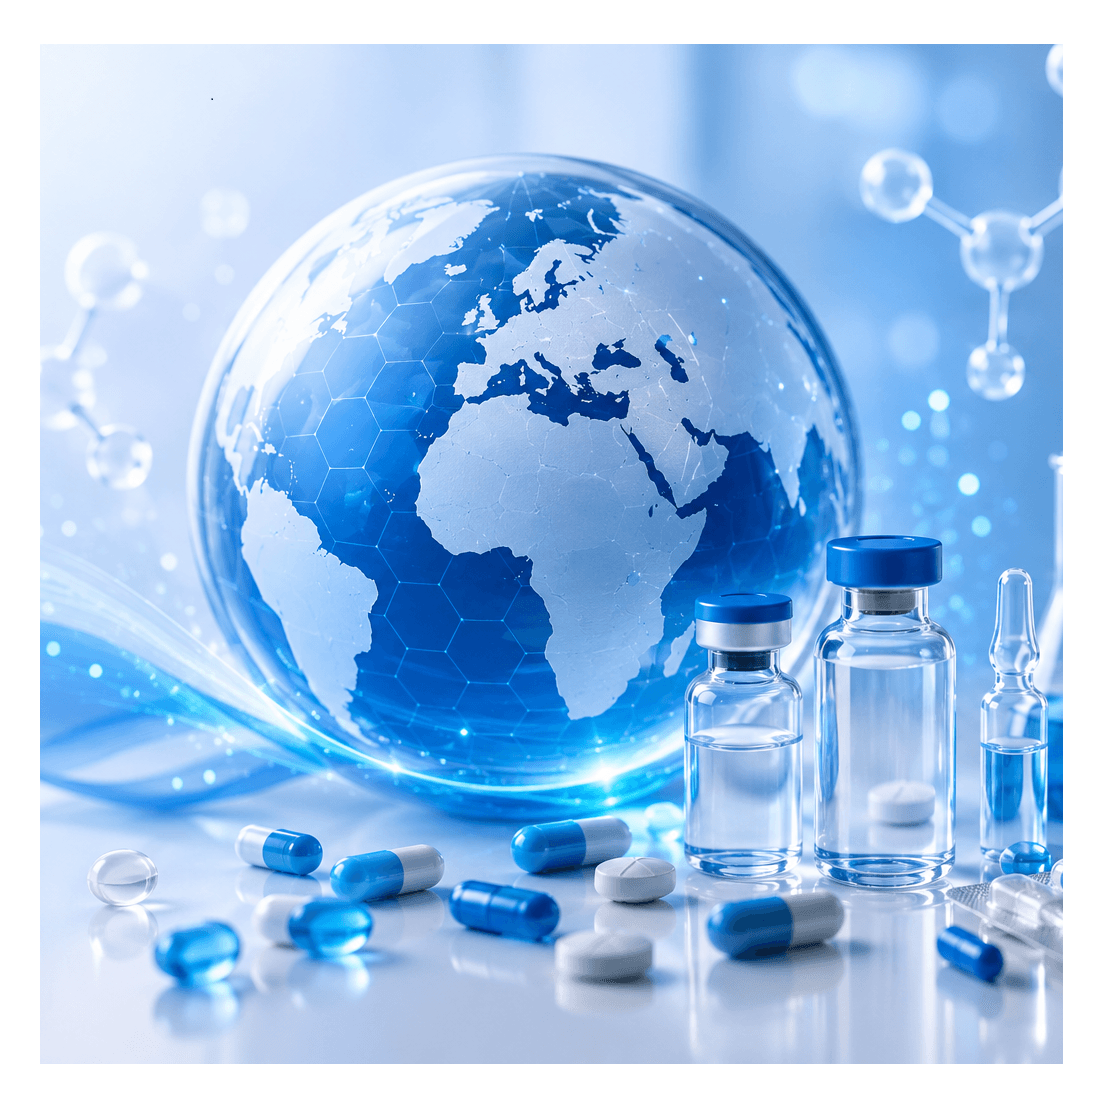
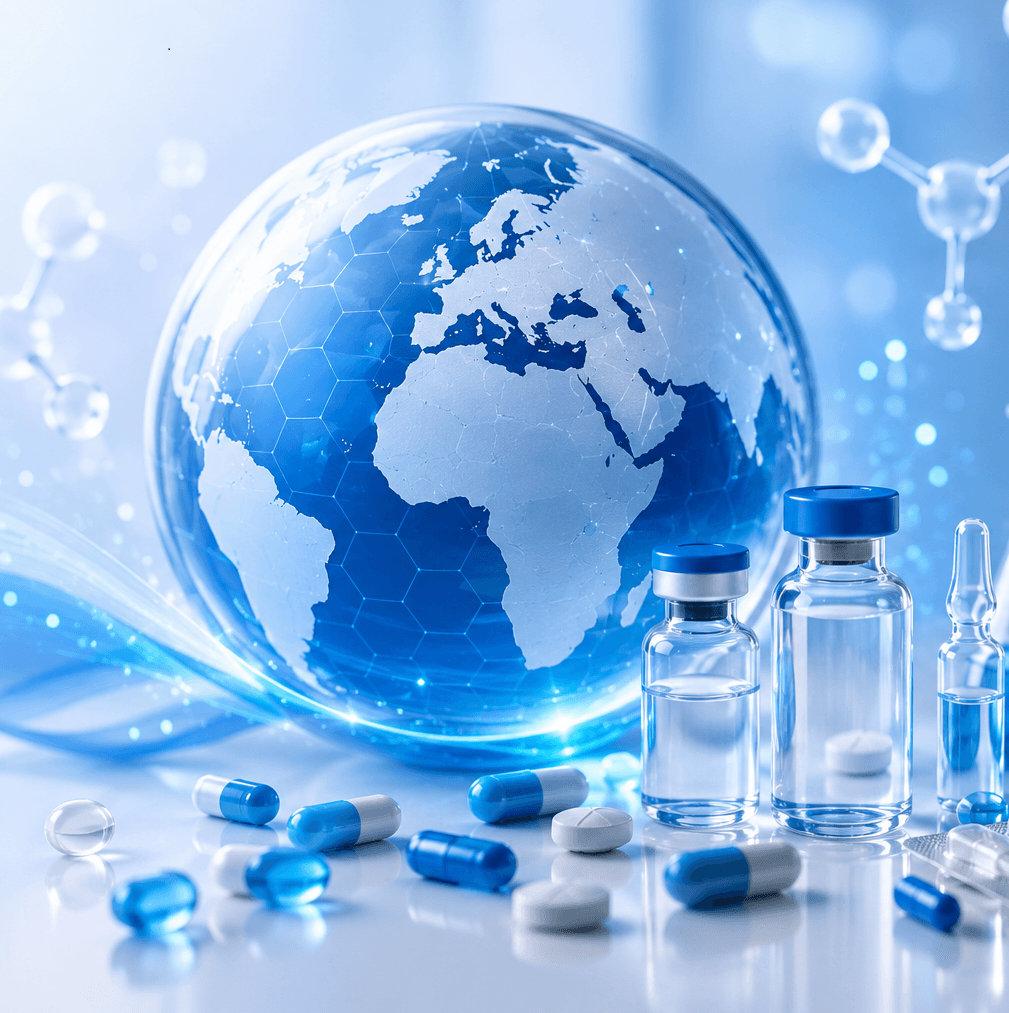
Product and Quality pages
images Changed

diff --git a/src/app/products/page.tsx b/src/app/products/page.tsx
@@ -240,7 +240,7 @@ export default function ProductsPage() {
                   description: "Essential medications for allergy relief and histamine management.",
                   label: "Antihistamine",
                   accent: "blue",
-                  image: "/Cetrizine.png",
+                  image: "/Products/Cetirizine.jpg",
                   imageAlt: "Cetirizine medication",
                 },
                 {
@@ -248,15 +248,15 @@ export default function ProductsPage() {
                   description: "Comprehensive anticonvulsant formulation for neurological support.",
                   label: "Antiepileptic",
                   accent: "teal",
-                  image: "/Levetiracetam.png",
+                  image: "/Products/Levetiracetam.jpg",
                   imageAlt: "Levetiracetam medication",
                 },
                 {
-                  title: "Pregablin",
+                  title: "Pregabalin",
                   description: "Neuropathic pain management and neurological disorder treatment.",
                   label: "Neuropathic Agent",
                   accent: "blue",
-                  image: "/Pregablin.png",
+                  image: "/Products/Pregabalin.jpg",
                   imageAlt: "Pregablin medication",
                 },
               ].map((product) => (
@@ -365,7 +365,7 @@ export default function ProductsPage() {
 
             <ScrollRevealContainer staggerDelay={0.15} className="future-grid">
               <ScrollRevealItem>
-                <div className="future-card">
+                <div className="future-card future-card-oncology">
                   <h3>Expansion 2026</h3>
                   <p>Oncology & Complex Generics</p>
                   <p>
@@ -377,7 +377,7 @@ export default function ProductsPage() {
               </ScrollRevealItem>
 
               <ScrollRevealItem>
-                <div className="future-card">
+                <div className="future-card future-card-injectables">
                   <h3>Technical Roadmap</h3>
                   <p>Injectables & Sterile Solutions</p>
                   <p>

diff --git a/src/app/quality/page.tsx b/src/app/quality/page.tsx
@@ -296,10 +296,10 @@ export default function QualityPage() {
             {[
               {
                 title: "Chemistry Section",
-                description: "Equipped with HPLC, GC, and MS for precise molecular characterization and stability testing.",
+                description: "Equipped with advanced HPLC, GC, and MS for precise molecular characterization and stability testing.",
                 label: "Instrumental Excellence",
                 accent: "blue",
-                image: "/Chemistry.png",
+                image: "/Quality/Chem.jpg",
                 imageAlt: "Chemistry instruments and laboratory glassware",
               },
               {
@@ -307,7 +307,7 @@ export default function QualityPage() {
                 description: "Specialized sterility testing, microbial limits, and environmental monitoring in Class A environments.",
                 label: "Biological Integrity",
                 accent: "teal",
-                image: "/Microbiology.png",
+                image: "/Quality/Micro.jpg",
                 imageAlt: "Microbiology laboratory environment",
               },
               {
@@ -315,7 +315,7 @@ export default function QualityPage() {
                 description: "Paperless documentation via eDMS, real-time LMS training tracking, and AI-driven automation.",
                 label: "Automated Precision",
                 accent: "teal",
-                image: "/Digital_Quality.png",
+                image: "/Quality/Digital.jpg",
                 imageAlt: "Digital quality systems visualization",
               },
             ].map((card) => (

diff --git a/src/app/globals.css b/src/app/globals.css
@@ -5512,12 +5512,12 @@ html[data-theme="dark"] .manufacturing-process-step {
   text-align: center;
 }
 
-.future-card:nth-child(1) {
-  background-image: url("/Oncology.png");
+.future-card-oncology {
+  background-image: url("/Products/future.jpg");
 }
 
-.future-card:nth-child(2) {
-  background-image: url("/Injectables.png");
+.future-card-injectables {
+  background-image: url("/Products/Technical%20roadmap.jpg");
 }
 
 .future-card::before {

diff --git a/src/app/facility/page.tsx b/src/app/facility/page.tsx
@@ -23,7 +23,7 @@ const facilities = [
     id: 3,
     title: "Quality Control Lab",
     description: "Ensuring product integrity through rigorous testing, high class equipment and quality assurance.",
-    image: "/facilities/QC.jpg",
+    image: "/facilities/Quality control.png",
   },
   {
     id: 4,
